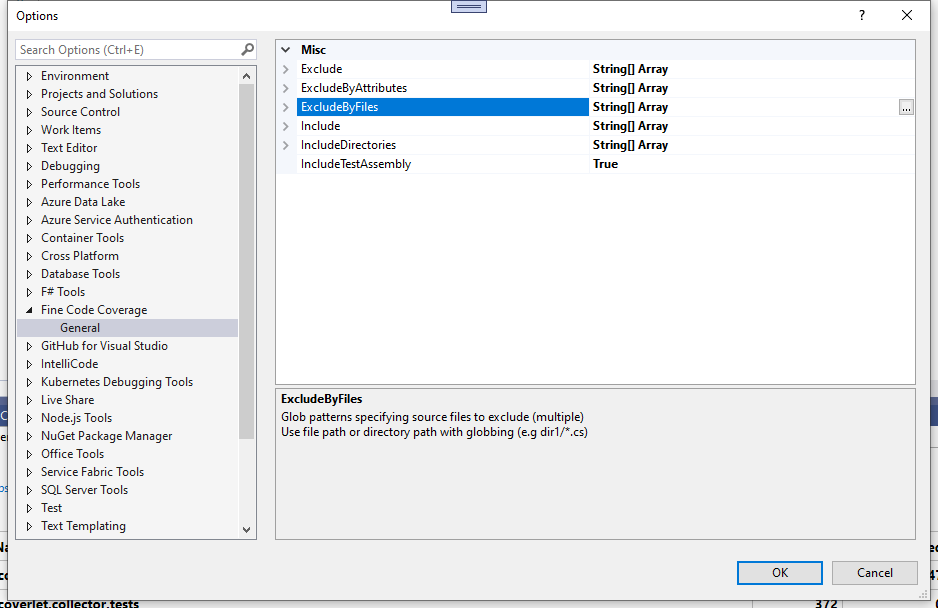
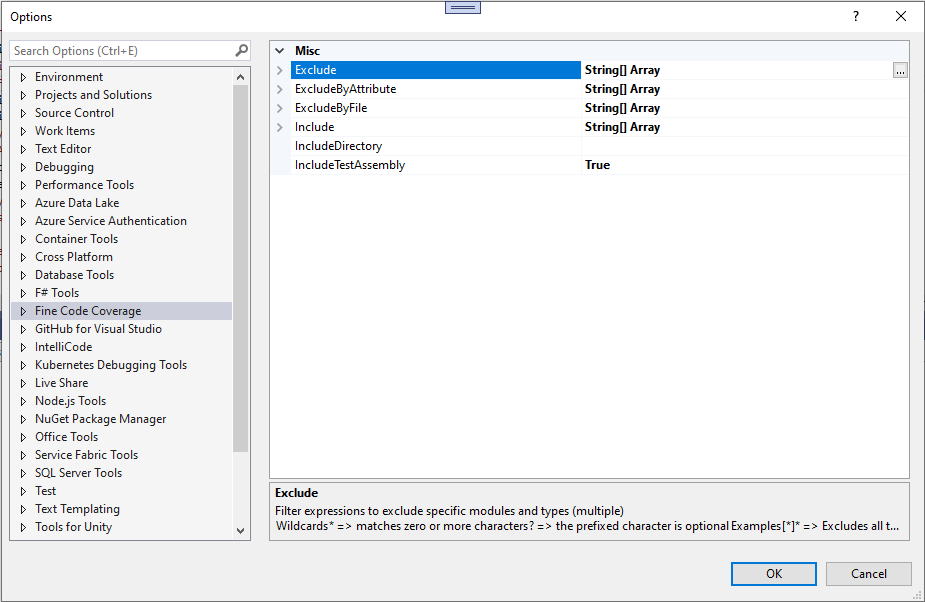
Options

Changed region(s): [[0.0, 0.0, 1.0, 1.0]]

diff --git a/FineCodeCoverage/Options/AppSettings.cs b/FineCodeCoverage/Options/AppSettings.cs
@@ -57,7 +57,6 @@ namespace FineCodeCoverage.Options
 		@"Attributes to exclude from code coverage (multiple)
 
 		You can ignore a method or an entire class from code coverage by creating and applying the [ExcludeFromCodeCoverage] attribute present in the System.Diagnostics.CodeAnalysis namespace.
-		
 		You can also ignore additional attributes by adding to this list (short name or full name supported) e.g. :
 		[GeneratedCode] => Present in System.CodeDom.Compiler namespace
 		[CompilerGenerated] => Present in System.Runtime.CompilerServices namespace

diff --git a/README.md b/README.md
@@ -61,9 +61,9 @@ Run a(some) unit test(s) and ...
 ```
 Exclude                 Filter expressions to exclude specific modules and types (multiple values)
 Include                 Filter expressions to include specific modules and types (multiple values)
-IncludeDirectories      Include directories containing additional assemblies to be instrumented (multiple values)
-ExcludeByFiles          Glob patterns specifying source files to exclude (multiple values)
-ExcludeByAttributes     Attributes to exclude from code coverage (multiple values)
+IncludeDirectory        Include directories containing additional assemblies to be instrumented (multiple values)
+ExcludeByFile           Glob patterns specifying source files to exclude (multiple values)
+ExcludeByAttribute      Attributes to exclude from code coverage (multiple values)
 IncludeTestAssembly     Specifies whether to report code coverage of the test assembly
 
 Both 'Exclude' and 'Include' options can be used together but 'Exclude' takes precedence.
